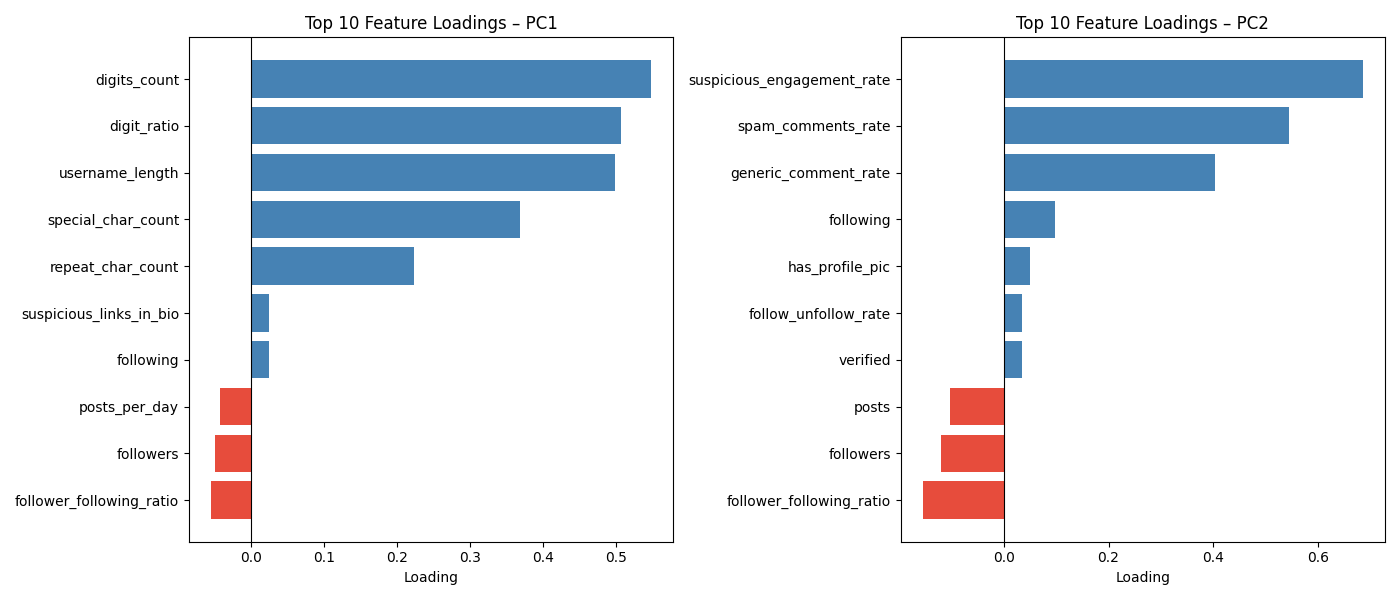
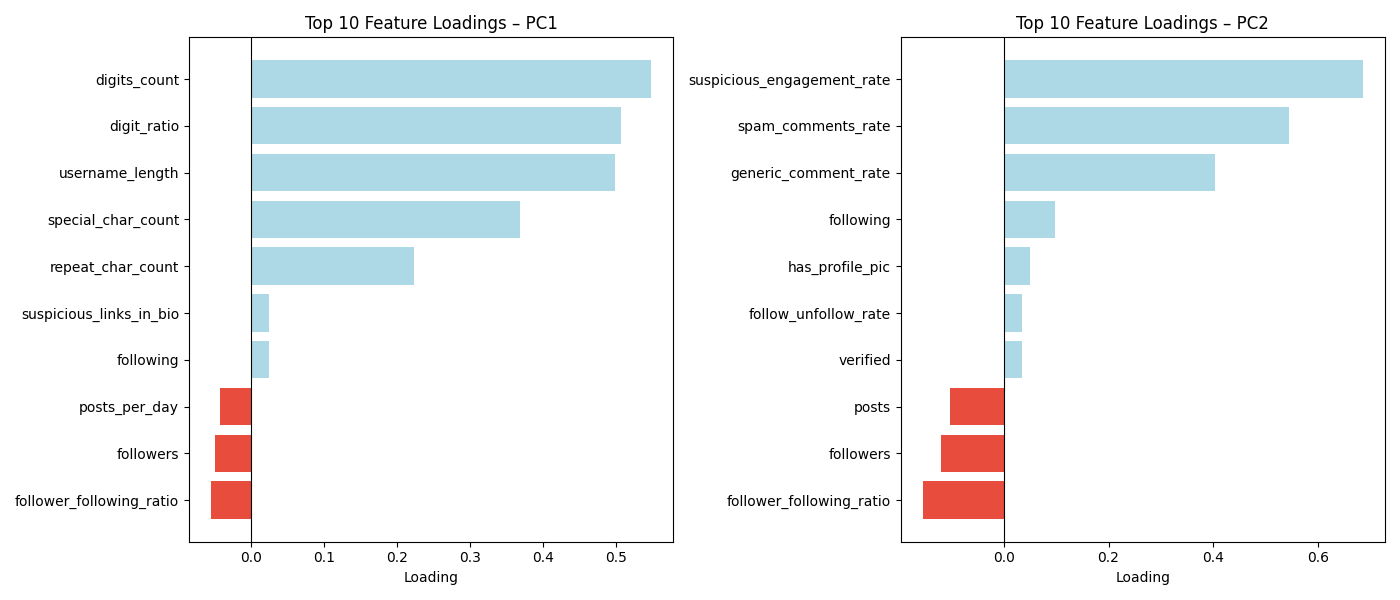
Adding new functionality for adding importance features in json file.

Changed region(s): [[0.1536, 0.09, 0.4914, 0.63], [0.7064, 0.09, 0.9829, 0.63]]

diff --git a/src/p3_pca.py b/src/p3_pca.py
@@ -8,6 +8,7 @@ import seaborn as sns
 from sklearn.preprocessing import StandardScaler
 from sklearn.decomposition import PCA
 from scipy.stats import skew
+import json
 
 
 # Get the cleaned dataset path
@@ -112,10 +113,7 @@ def plot_pca_scatter(X_pca, y: pd.Series):
 
     for label, name in [(0, "Real"), (1, "Fake")]:
         mask = y == label
-        ax.scatter(
-            X_pca[mask, 0], X_pca[mask, 1],
-            c=PALETTE[label], label=name, alpha=0.4, s=15
-        )
+        ax.scatter(X_pca[mask, 0], X_pca[mask, 1], c=PALETTE[label], label=name, alpha=0.4, s=15)
 
     ax.set_title("PCA PC1 vs PC2 (Real vs Fake)")
     ax.set_xlabel("PC1")
@@ -131,11 +129,7 @@ def plot_pca_scatter(X_pca, y: pd.Series):
 
 # Plot top feature loadings for PC1 and PC2
 def plot_loadings(pca, feature_names: list, top_n: int = 10):
-    loadings = pd.DataFrame(
-        pca.components_[:2].T,
-        index=feature_names,
-        columns=["PC1", "PC2"]
-    )
+    loadings = pd.DataFrame(pca.components_[:2].T, index=feature_names, columns=["PC1", "PC2"])
 
     fig, axes = plt.subplots(1, 2, figsize=(14, 6))
 
@@ -166,6 +160,14 @@ def save_pca_data(X_pca, y: pd.Series, n_components: int):
     print(f"PCA data saved to: {PCA_PATH}")
 
 
+def save_feature_json(features):
+    meta = {"features": features}
+    meta_path = os.path.join(os.path.dirname(__file__), "..", "data", "pca_features.json")
+    with open(meta_path, "w") as f:
+        json.dump(meta, f)
+
+    print("Importance faeture saved successfully.")
+
 
 def main():
     X, y, feature_names = load_and_prepare_data()
@@ -181,6 +183,8 @@ def main():
     plot_loadings(pca, feature_names)
     # Save PCA dataset
     save_pca_data(X_pca, y, n_components)
+    #Save the importnace faetures into the pca_meta.json file
+    save_feature_json(feature_names)
 
 
 if __name__ == "__main__":
